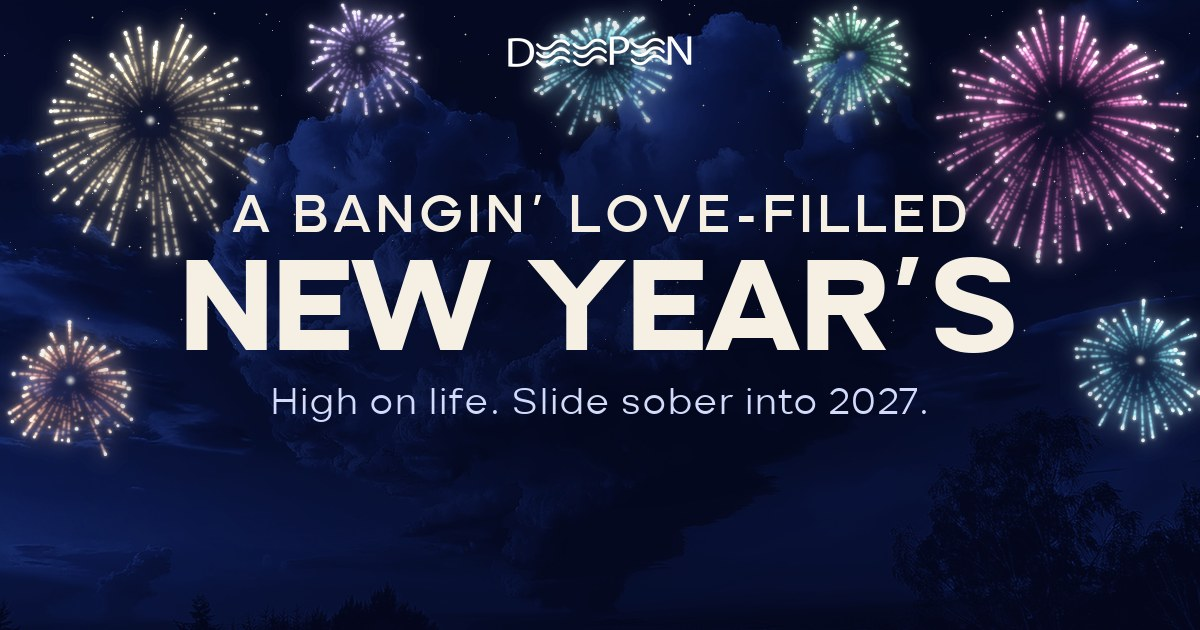
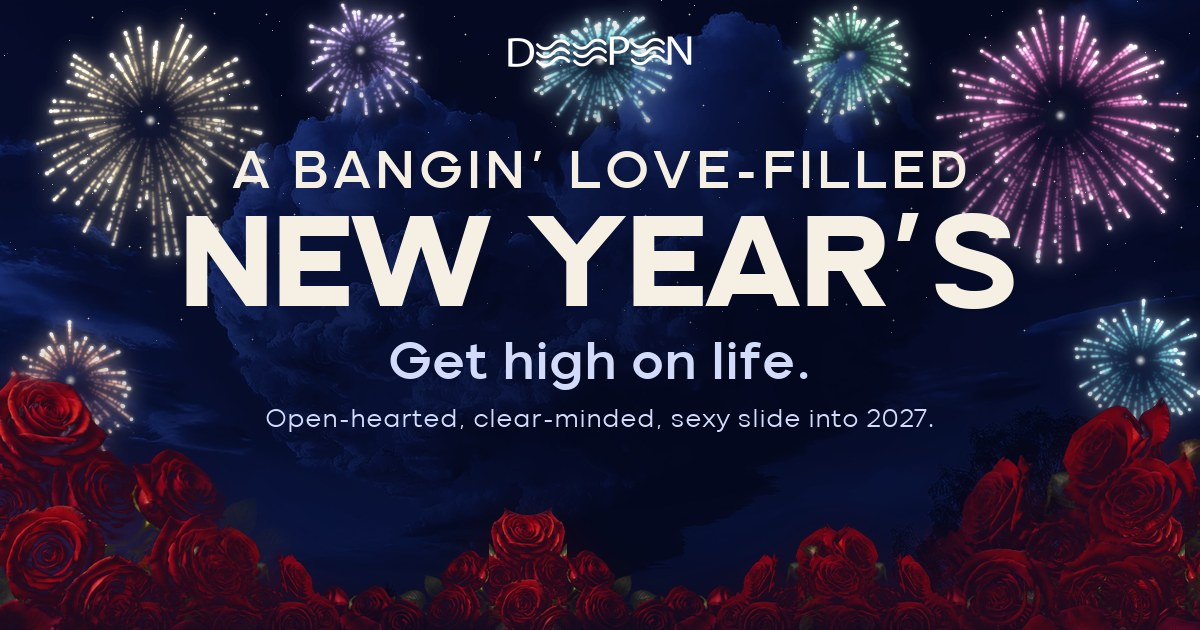
NYE page: 'Get high on life' tagline and red roses on the hero, final CTA, share image and TicketSpice header (#696)

Changed region(s): [[0.1542, 0.2413, 0.8633, 0.6937], [0.0, 0.573, 1.0, 1.0]]

diff --git a/nye/index.html b/nye/index.html
@@ -24,24 +24,24 @@
   </script>
   
   <title>A Bangin' Love-Filled New Year's | Sober NYE in Austin | WeDeepen</title>
-  <meta name="description" content="A completely sober New Year&#39;s for 30 people at the Gatsby Mansion in Austin, Dec 30 to Jan 1. Choose your 2027 and slide in high on life. Book your spot.">
+  <meta name="description" content="A completely sober New Year&#39;s for 30 people at the Gatsby Mansion in Austin, Dec 30 to Jan 1. Get high on life and slide into 2027 open-hearted and clear-minded. Book your spot.">
   <meta name="robots" content="index, follow">
   <link rel="canonical" href="https://wedeepen.com/nye/">
 
   <meta property="og:type" content="website">
   <meta property="og:url" content="https://wedeepen.com/nye/">
-  <meta property="og:title" content="A Bangin&#39; Love-Filled New Year&#39;s: High on life. Slide sober into 2027.">
+  <meta property="og:title" content="A Bangin&#39; Love-Filled New Year&#39;s: Get high on life.">
   <meta property="og:description" content="30 people, one new year. Settle your nervous system, get clear on what you truly desire, and choose your 2027 with people whose dreams are coming true. Opening night Dec 30, then New Year&#39;s Eve straight through to a sunrise closing circle at the Gatsby Mansion, Austin. Completely sober, fully alive. Only 30 spots: book your ticket now.">
-  <meta property="og:image" content="https://wedeepen.com/images/og/nye.jpg?v=2">
+  <meta property="og:image" content="https://wedeepen.com/images/og/nye.jpg?v=3">
   <meta property="og:image:width" content="1200">
   <meta property="og:image:height" content="630">
   <meta property="og:image:type" content="image/jpeg">
   <meta property="og:site_name" content="WeDeepen">
 
   <meta name="twitter:card" content="summary_large_image">
-  <meta name="twitter:title" content="A Bangin&#39; Love-Filled New Year&#39;s: High on life. Slide sober into 2027.">
+  <meta name="twitter:title" content="A Bangin&#39; Love-Filled New Year&#39;s: Get high on life.">
   <meta name="twitter:description" content="30 people, one new year. Settle your nervous system, get clear on what you truly desire, and choose your 2027 with people whose dreams are coming true. Opening night Dec 30, then New Year&#39;s Eve straight through to a sunrise closing circle at the Gatsby Mansion, Austin. Completely sober, fully alive. Only 30 spots: book your ticket now.">
-  <meta name="twitter:image" content="https://wedeepen.com/images/og/nye.jpg?v=2">
+  <meta name="twitter:image" content="https://wedeepen.com/images/og/nye.jpg?v=3">
 
 
   <!-- Fonts -->
@@ -112,6 +112,13 @@
       line-height: 0.95;
     }
 
+    .nye-roses {
+      position: absolute; left: 0; bottom: 0; width: 100%;
+      aspect-ratio: 2400 / 560; height: auto; min-height: 110px;
+      object-fit: cover; object-position: center top;
+      pointer-events: none; z-index: 1;
+    }
+    @media (max-width: 767px) { .nye-roses { aspect-ratio: 1200 / 640; min-height: 0; } }
     .cloud-hero {
       background-image:
         linear-gradient(180deg, rgba(5,8,28,0.35) 0%, rgba(5,8,28,0.25) 50%, rgba(7,11,31,0.92) 100%),
@@ -237,7 +244,7 @@
     "name": "The Gatsby Mansion",
     "address": { "@type": "PostalAddress", "addressLocality": "Austin", "addressRegion": "TX", "addressCountry": "US" }
   },
-  "image": "https://wedeepen.com/images/og/nye.jpg?v=2",
+  "image": "https://wedeepen.com/images/og/nye.jpg?v=3",
   "organizer": { "@type": "Organization", "name": "WeDeepen", "url": "https://wedeepen.com/" },
   "maximumAttendeeCapacity": 30
 }
@@ -367,17 +374,19 @@
   <main id="main">
   <!-- HERO -->
   <section class="cloud-hero relative min-h-[90vh] flex items-center justify-center overflow-hidden">
-    <div class="relative z-10 text-center px-6 max-w-4xl mx-auto pt-28 md:pt-32 pb-20">
+    <div class="relative z-10 text-center px-6 max-w-4xl mx-auto pt-28 md:pt-32 pb-36 md:pb-52">
       <p class="text-gold text-xs md:text-sm tracking-[0.22em] uppercase font-medium mb-6" style="text-shadow: 0 2px 12px rgba(0,0,0,0.6);">Dec 30 &ndash; Jan 1 &middot; The Gatsby Mansion &middot; Austin, TX</p>
       <h1 class="font-vilonti uppercase text-cream mb-6" style="text-shadow: 0 6px 30px rgba(0,0,0,0.5);">
         <span class="block text-xl sm:text-3xl md:text-5xl tracking-[0.06em] mb-2" style="font-weight:700;">A Bangin&rsquo; Love-Filled</span>
         <span class="block text-5xl sm:text-7xl md:text-8xl">New Year&rsquo;s</span>
       </h1>
-      <p class="font-heading italic text-white text-xl md:text-3xl leading-snug mb-2" style="text-shadow: 0 2px 16px rgba(0,0,0,0.6);">High on life. Slide sober into 2027.</p>
+      <p class="font-heading italic text-white text-2xl md:text-4xl leading-snug mb-2" style="text-shadow: 0 2px 16px rgba(0,0,0,0.6);">Get high on life.</p>
+      <p class="font-heading italic text-white/90 text-lg md:text-2xl leading-snug mb-3" style="text-shadow: 0 2px 16px rgba(0,0,0,0.6);">Open-hearted, clear-minded, sexy slide into 2027.</p>
       <p class="text-white/70 text-sm md:text-base mb-10">(a completely sober New Year&rsquo;s party)</p>
       <a href="#tickets" class="btn-pink text-base">Sign Me Up</a>
       <p class="text-white/70 text-sm mt-5">30 spots. Open to singles and couples.</p>
     </div>
+    <picture><source media="(max-width: 767px)" srcset="/images/nye/roses-garland-phone.webp"><img class="nye-roses" src="/images/nye/roses-garland.webp" alt="" aria-hidden="true"></picture>
   </section>
 
   <!-- THE NIGHT -->
@@ -660,11 +669,12 @@
   </section>
 
   <!-- FINAL CTA -->
-  <section class="cloud-hero py-24 md:py-32 px-6 text-center">
-    <div class="max-w-2xl mx-auto reveal">
+  <section class="cloud-hero relative overflow-hidden pt-24 md:pt-32 pb-40 md:pb-56 px-6 text-center">
+    <div class="relative z-10 max-w-2xl mx-auto reveal">
       <h2 class="font-heading text-4xl md:text-5xl font-normal mb-6" style="text-shadow: 0 2px 16px rgba(0,0,0,0.6);">2027 starts in the room <span class="italic">you choose.</span></h2>
       <a href="#tickets" class="btn-pink text-base">Sign Me Up</a>
     </div>
+    <picture><source media="(max-width: 767px)" srcset="/images/nye/roses-garland-phone.webp"><img class="nye-roses" src="/images/nye/roses-garland.webp" alt="" aria-hidden="true" loading="lazy"></picture>
   </section>
 
 
